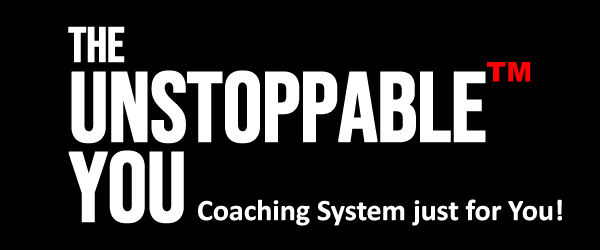
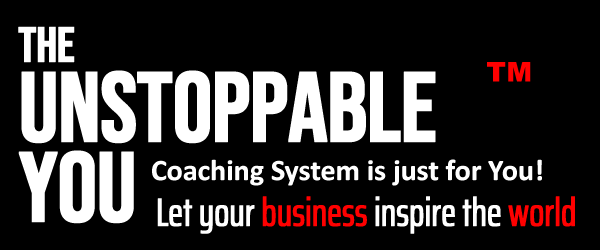
coaching

Changed region(s): [[0.03, 0.28, 0.96, 0.952], [0.03, 0.084, 0.21, 0.252]]

diff --git a/app/views/page/coaching.html.php b/app/views/page/coaching.html.php
@@ -1,0 +1,59 @@
+<!DOCTYPE html>
+<html>
+  <head>
+    <meta name="viewport" content="width=device-width, initial-scale=1.0" />
+    <title>{pagetitle}
+    </title>
+    <meta name="description" content="{pagemetadescription}" />
+    <script data-source="mautic">
+      var mauticForms = {
+      };
+    </script>
+				<link href="https://fonts.googleapis.com/css2?family=Noto+Sans+KR:wght@400;900&family=Oswald:wght@300;700&display=swap" rel="stylesheet"> 
+				<link href="https://sff.team/framework7/css/framework7.bundle.min.css" rel="stylesheet">
+				<style>
+				.Noto{font-family: 'Noto Sans KR', sans-serif;{}
+    .Oswald {font-family: 'Oswald', sans-serif;}
+				.sz1{font-size:calc(1em + 1vw)}
+				.szhalf{font-size:calc(1em + 0.5vw)}
+				.sz2{font-size:calc(1em + 2vw)}
+				.sz3{font-size:calc(1em + 3vw)}
+				.sz4{font-size:calc(1em + 4vw)}
+				.sz5{font-size:calc(1em + 5vw)}
+				.sz6{font-size:calc(1em + 6vw)}
+				.sz7{font-size:calc(1em + 7vw)}
+				.wrapper {
+  background-image: url();
+  background-repeat: no-repeat;
+  background-size: 100% 100%;
+  width: 100%;
+  height: auto;
+}
+
+.iFrame-video{
+	position: relative;
+	padding-bottom: 56.25%; /* 16:9 */
+	padding-top: 25px;
+	height: 0;
+}
+.iFrame-video iframe{
+	position: absolute;
+	top: 0;
+	left: 0;
+	width: 100%;
+	height: 100%;
+}
+				</style>
+  </head>
+  <body class="page-content" style="background-color:#eee">
+    <div data-section-wrapper="1" style="text-align:center">
+				<div class="wrapper"></div>
+				<img src="https://sff.team/img/TheUnStoppableYou-F.png" width="100%" height="auto">
+				<div class="block Noto sz1 text-align-justify">
+				<h1 class="Oswald sz5 text-clign-center" >Opportunity for Coaches</h1>
+				<hr><div class="block">
+	<script type="text/javascript" src="//circle.sff.team/form/generate.js?id=1"></script>
+</div>
+    </div>
+  </body>
+</html>

diff --git a/app/controllers/PageController.php b/app/controllers/PageController.php
@@ -200,6 +200,14 @@ class PageController extends \lithium\action\Controller {
 		
 		return compact('data');
 	}
+	
+	public function coaching(){
+		
+		
+		
+		return compact('data');
+	}
+	
 //end of functions
 }
 ?>
